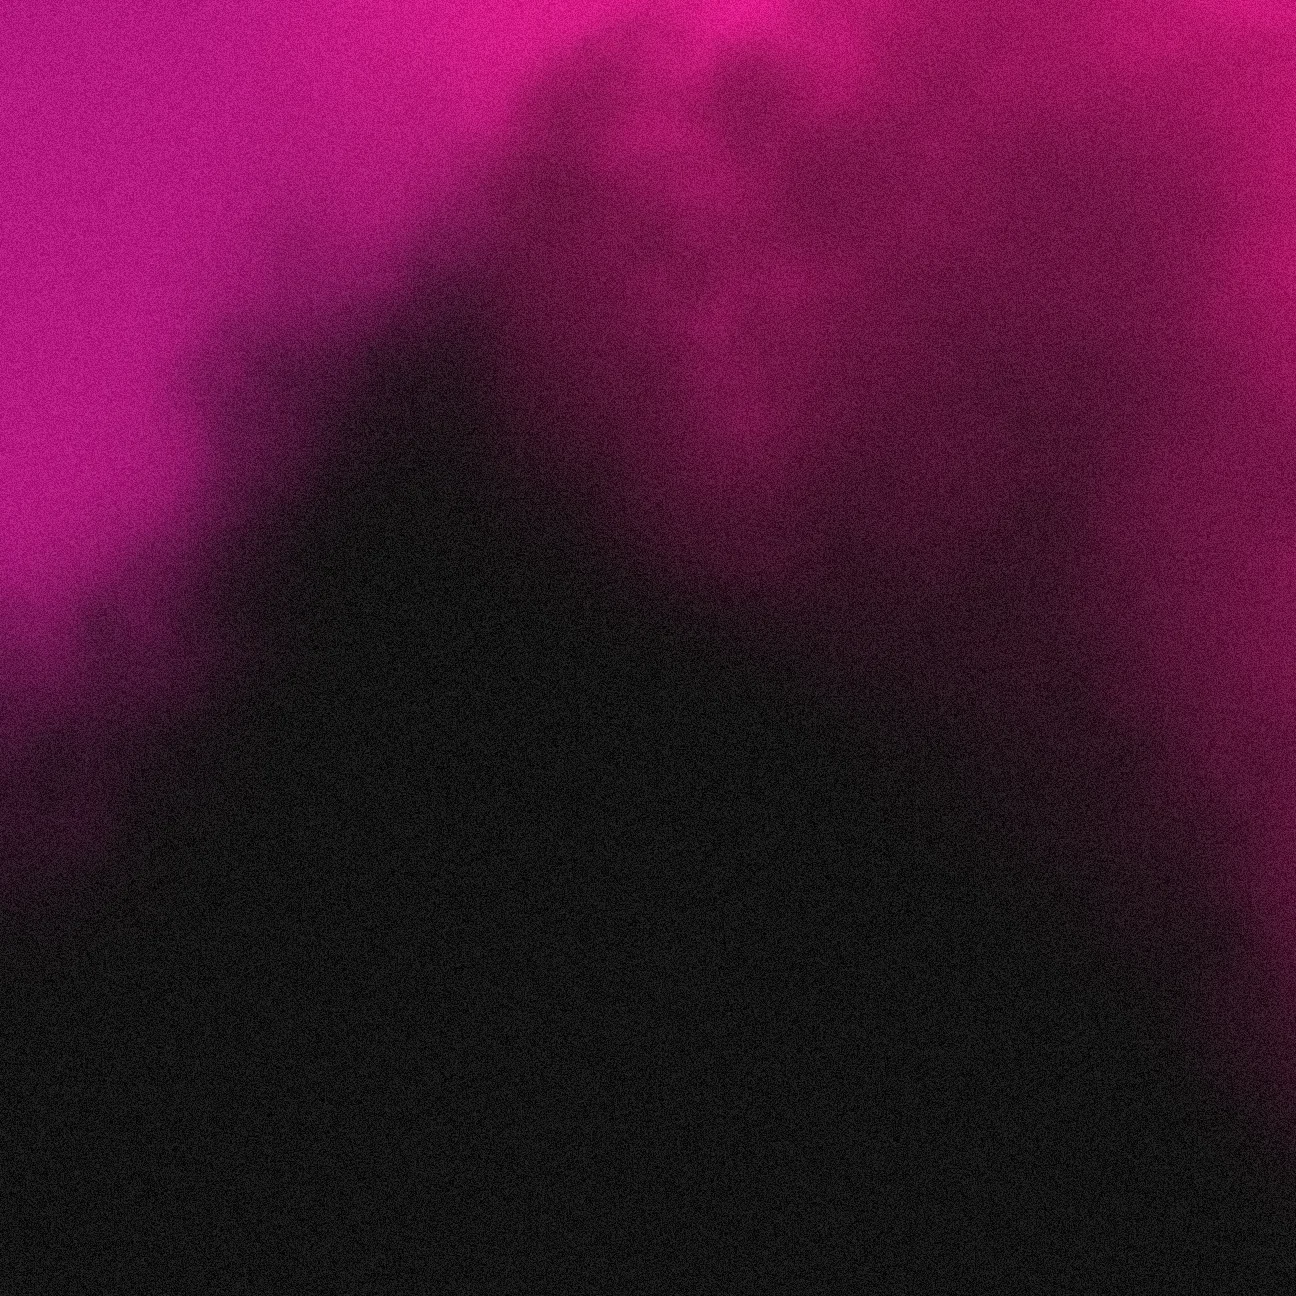
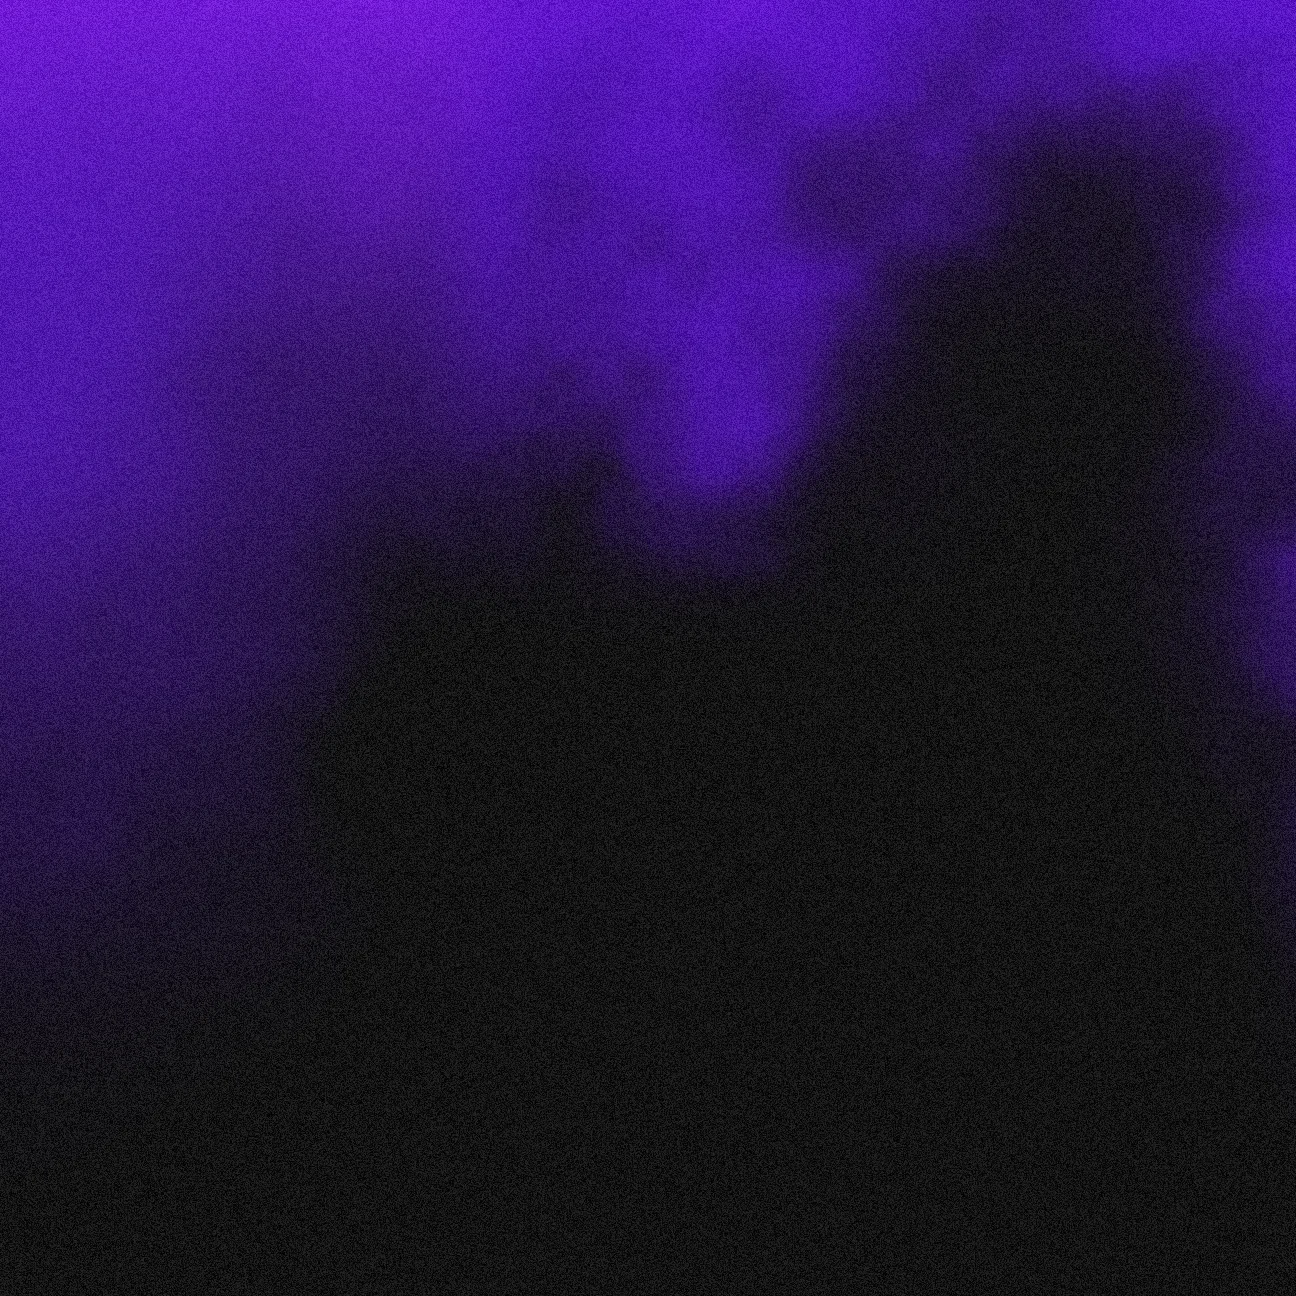
Links

diff --git a/src/components/modals/TelegramGiftsInfoModal.tsx b/src/components/modals/TelegramGiftsInfoModal.tsx
@@ -6,18 +6,22 @@ import { useHapticFeedback } from '@/utils/useHapticFeedback';
 import { motion } from 'motion/react';
 
 export type TelegramGiftsMarketplace = {
-    /** Без ведущего @ */
-    telegramUsername: string;
-    /** Отображаемая подпись, напр. @Portals */
+    /** Полная ссылка https://t.me/... для Mini App / бота */
+    href: string;
+    /** Отображаемая подпись */
     label: string;
     /** Иконка в public, напр. /portals.jpg */
     iconSrc: string;
 };
 
 export const TELEGRAM_GIFT_MARKETPLACES: TelegramGiftsMarketplace[] = [
-    { telegramUsername: 'Portals', label: 'Portals', iconSrc: '/portals.jpg' },
-    { telegramUsername: 'Tonnel_Network_bot', label: 'TonnelMarket', iconSrc: '/tonnel.jpg' },
-    { telegramUsername: 'mrkt', label: 'mrkt', iconSrc: '/mrkt.jpg' },
+    { href: 'https://t.me/mrkt/app?startapp=8036659989', label: 'mrkt', iconSrc: '/mrkt.jpg' },
+    {
+        href: 'https://t.me/tonnel_network_bot/gifts?startapp=ref_8036659989',
+        label: 'TonnelMarket',
+        iconSrc: '/tonnel.jpg',
+    },
+    { href: 'https://t.me/portals/market?startapp=iiz7xy', label: 'Portals', iconSrc: '/portals.jpg' },
 ];
 
 export type TelegramGiftsInfoModalProps = {
@@ -34,9 +38,8 @@ const TelegramGiftsInfoModal: React.FC<TelegramGiftsInfoModalProps> = ({ isOpen,
         onClose();
     };
 
-    const openMarketUsername = (username: string) => {
+    const openTelegramHref = (url: string) => {
         hapticImpact('soft');
-        const url = `https://t.me/${username.replace(/^@/, '')}`;
         const tg = window.Telegram?.WebApp;
         if (tg?.openTelegramLink) tg.openTelegramLink(url);
         else window.open(url, '_blank', 'noopener,noreferrer');
@@ -64,10 +67,10 @@ const TelegramGiftsInfoModal: React.FC<TelegramGiftsInfoModalProps> = ({ isOpen,
                 </p>
                 <ul className="flex flex-col gap-2">
                     {TELEGRAM_GIFT_MARKETPLACES.map((m) => (
-                        <li key={m.telegramUsername}>
+                        <li key={m.href}>
                             <motion.button
                                 type="button"
-                                onClick={() => openMarketUsername(m.telegramUsername)}
+                                onClick={() => openTelegramHref(m.href)}
                                 className="flex w-full items-center gap-3 text-left text-sm font-semibold cursor-pointer"
                                 {...motionInteractiveSurfaceProps}
                                 whileHover={{ scale: 1.02 }}